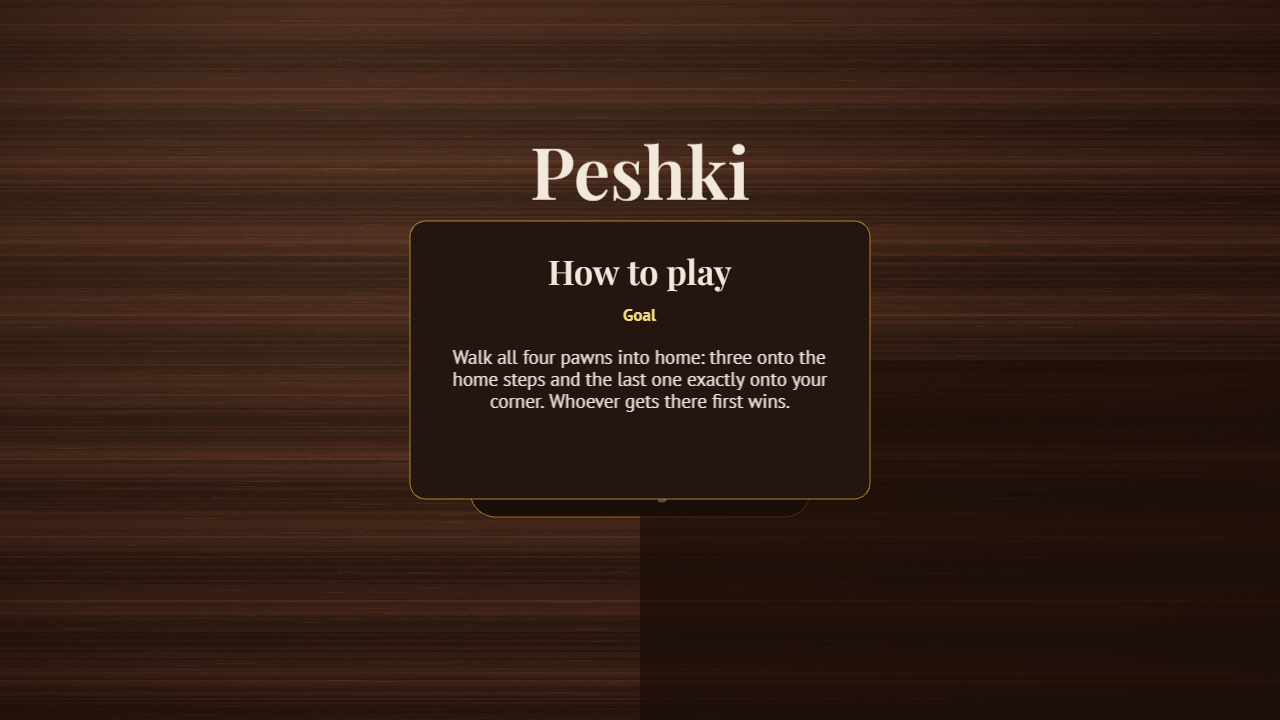
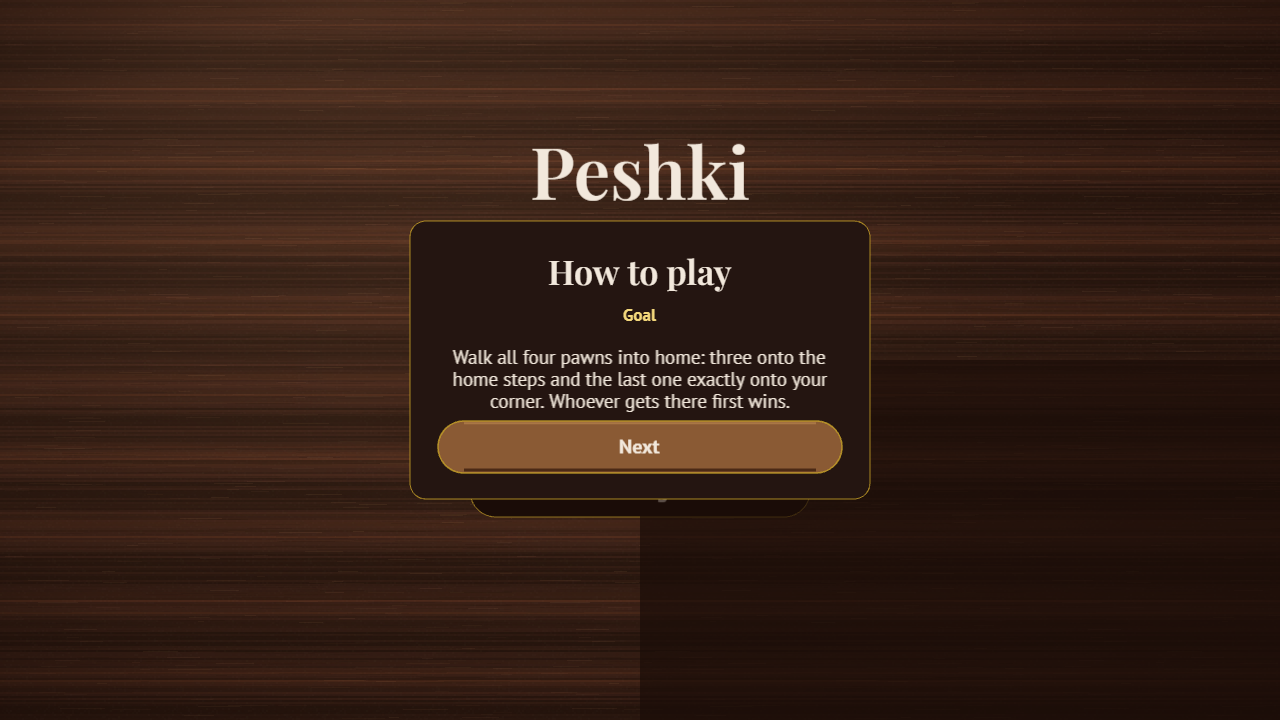
docs: art-direction §12 #7 deviations; playwright: per-state #7 battery, config timeout

Changed region(s): [[0.3438, 0.5806, 0.6562, 0.6722]]

diff --git a/web/tests/screens.spec.ts b/web/tests/screens.spec.ts
@@ -227,14 +227,13 @@ test.describe('ticket #7 screens and i18n evidence', () => {
 
   for (const lang of SCREEN7_LANGS) {
     for (const viewport of SCREEN7_VIEWPORTS) {
-      test(
-        `screens: ${lang} ${viewport.name} ${viewport.width}x${viewport.height}`,
-        { timeout: 240_000 },
-        async () => {
-        const browser7 = await chromium.launch({ headless: true, args: ['--enable-unsafe-swiftshader'] });
-        const page = await browser7.newPage({ viewport, deviceScaleFactor: 1 });
-        mkdirSync(SHOT_DIR, { recursive: true });
-        for (const state of SCREEN7_STATES) {
+      // two chunks per viewport: one browser slow-boots SwiftShader per page,
+      // a 320 s ceiling per test keeps a wedged state from eating the battery
+      SCREEN7_STATES.forEach((state, index) => {
+        test(`screens: ${lang} ${viewport.name} ${index + 1}/${SCREEN7_STATES.length} ${state.name}`, async () => {
+          const browser7 = await chromium.launch({ headless: true, args: ['--enable-unsafe-swiftshader'] });
+          const page = await browser7.newPage({ viewport, deviceScaleFactor: 1 });
+          mkdirSync(SHOT_DIR, { recursive: true });
           await page.goto(`http://localhost:5173/?lang=${lang}${state.suffix}`);
           await page.waitForSelector('canvas');
           // dialogs slide in at 1.2 s (result) / 1.5 s (pause, howto, settings); bots animate meanwhile
@@ -243,10 +242,9 @@ test.describe('ticket #7 screens and i18n evidence', () => {
             path: resolve(SHOT_DIR, `screens-${state.name}-${lang}-${viewport.name}.png`),
             timeout: 55_000,
           });
-        }
-        await dropBrowser();
-        },
-      );
+          await dropBrowser();
+        });
+      });
     }
   }
 });

diff --git a/web/playwright.config.ts b/web/playwright.config.ts
@@ -2,8 +2,9 @@ import { defineConfig } from '@playwright/test';
 
 export default defineConfig({
   testDir: 'tests',
-  timeout: 60_000,
-  retries: 0,
+  timeout: 600_000,
+  // this host's chrome-shell launch occasionally wedges for minutes; one retry is enough
+  retries: 1,
   // art shots run on demand: npm run screens (slow — software rendering, see README)
   outputDir: '.tmp/playwright',
   // a run that misses its own server would pin port 5173 — always own the server lifecycle

diff --git a/docs/art-direction.md b/docs/art-direction.md
@@ -566,7 +566,7 @@ common.close          Закрыть
 
 ---
 
-## 12. Отклонения реализации (билет #6, записано той же правкой)
+## 12. Отклонения реализации (билеты #6 и #7, записано той же правкой)
 
 Реализация пошла по этому документу; где реальность заставила отступить —
 отступ записан здесь же той же правкой.
@@ -625,3 +625,45 @@ common.close          Закрыть
 10. **Тексты** — объект `web/src/ui/strings.ts`; ландшафтный список
     игроков и портретные чипы показывают имя и счёт «xN», «Ход №» из §9
     появляется позже (с победными экранами).
+    (Билет #7 переписал этот пункт: строки переехали в
+    `web/src/i18n/{ru,en}.ts`, тест-гард держит не-ASCII литералы вне i18n;
+    `web/src/ui/strings.ts` удалён).
+
+### Билет #7 — экраны и i18n (нумерация внутри пункта своя)
+
+1. **Набор строк — из copy-review-комментария к #7, не из §9 выше.**
+   Удалены `menu.opponents2/opponents3` (билд всегда 1 человек + 3 бота) и
+   `settings.langSoon`; переписаны `howto.six.text` и `howto.kill.text` по
+   своду; добавлен `game.exactCorner`. Плюс добавленные при реализации ключи:
+   `game.yourMoveRoll`, `game.thinking`, `game.playerN` (запасной сид),
+   `settings.title`, `settings.langEn`, метки страниц «Как играть»
+   (`howto.{goal,move,six,kill}.label`), `menu.continue`.
+2. **§7.2 меню — одна кнопка «Играть»** (выбор числа соперников удалён по
+   copy-review); опоры «Продолжить» (#16) — необязательный колбэк `onContinue`
+   в `createMenu`, кнопка рисуется только когда колбэк передан.
+3. **§7.3/§7.3.1 пауза — круглая кнопка 48 px** вместо пары иконок:
+   портрет — в левой нише подноса (кубики занимают центр), ландшафт — левый
+   верхний угол боковой панели. Диалог паузы: Продолжить / Как играть /
+   Выйти в меню; выход — подтверждение §7.4.
+4. **§7.6 настройки открываются только из меню** (не из паузы); переключение
+   языка перерисовывает диалог и меню сразу, состояние хранится в том же
+   progress-блобе (`sound`, `language`), звука в билде ещё нет — тумблер
+   сохраняет предпочтение; для сериализации используется `Platform.saveProgress`.
+5. **§7.7 «Как играть» — 4 страницы-карточки** (без мини-диаграмм): метка
+   Concept-строкой сверху + абзац; вход — из меню и из паузы.
+6. **Победа/поражение/ничья — одна модальная карточка** (§7.5) с изменяемым
+   титулом/подписью; подписи-множественные формы («за {n} ход/хода/ходов»)
+   через plural-хелпер ru: 1 / 2–4 / 5+ / 11–14; EN — turn/turns.
+7. **Подсказка первой партии** — полоса над подносом (портрет) или над
+   нижним краем доски (ландшафт): одна строка за раз (Цель → Движение →
+   Шестёрка → Бой, тексты те же `howto.*.text`), снятие кнопкой «Понятно»,
+   просмотренные концепты живут в progress-блобе (`hintsSeen`).
+8. **Провода клавиатуры/пульта:** Tab/стрелки/Enter/Esc по меню и всем
+   диалогам; Esc в партии открывает паузу; доска остаётся мышиным делом —
+   полноценный TV-путь (#8) отдельным тикетом.
+9. **Guard на не-ASCII литералы вне i18n/** исключает два символа, которые
+   не являются текстом интерфейса: гравировка медальона «П» (§4) и русские
+   метки уровней сложности в `engine/bot.ts` (engine изменять нельзя).
+10. **Плейграунд для скриншотов:** `?lang=en|ru`, `?modal=pause|howto|settings`
+    и `?result=win|lose|draw` — только dev-стенд; шоты лежат в
+    `docs/screens/screens-*-{ru,en}-{portrait,landscape}.png` (32 шт).
